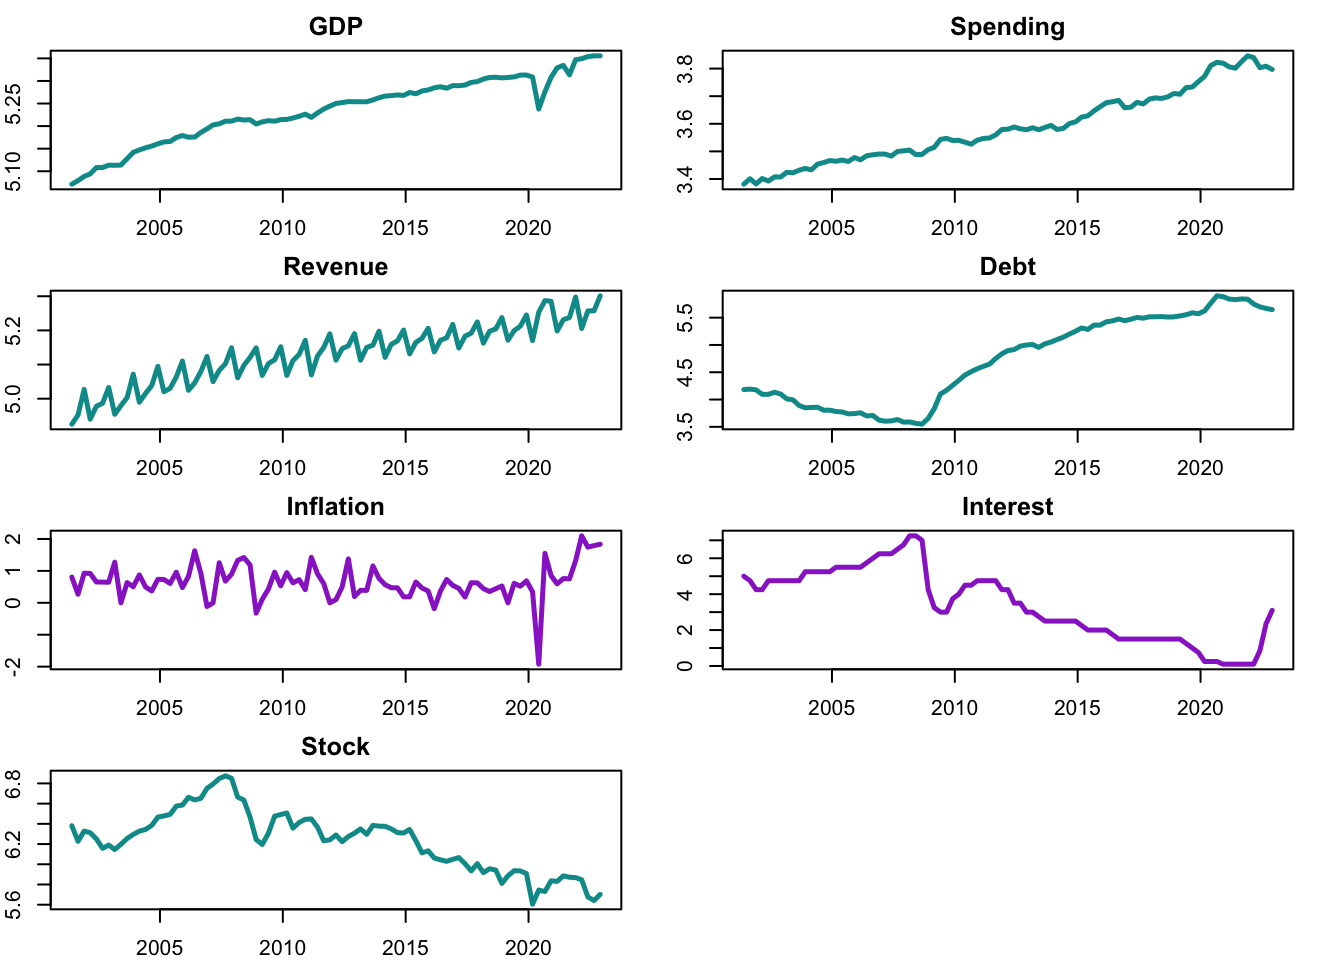
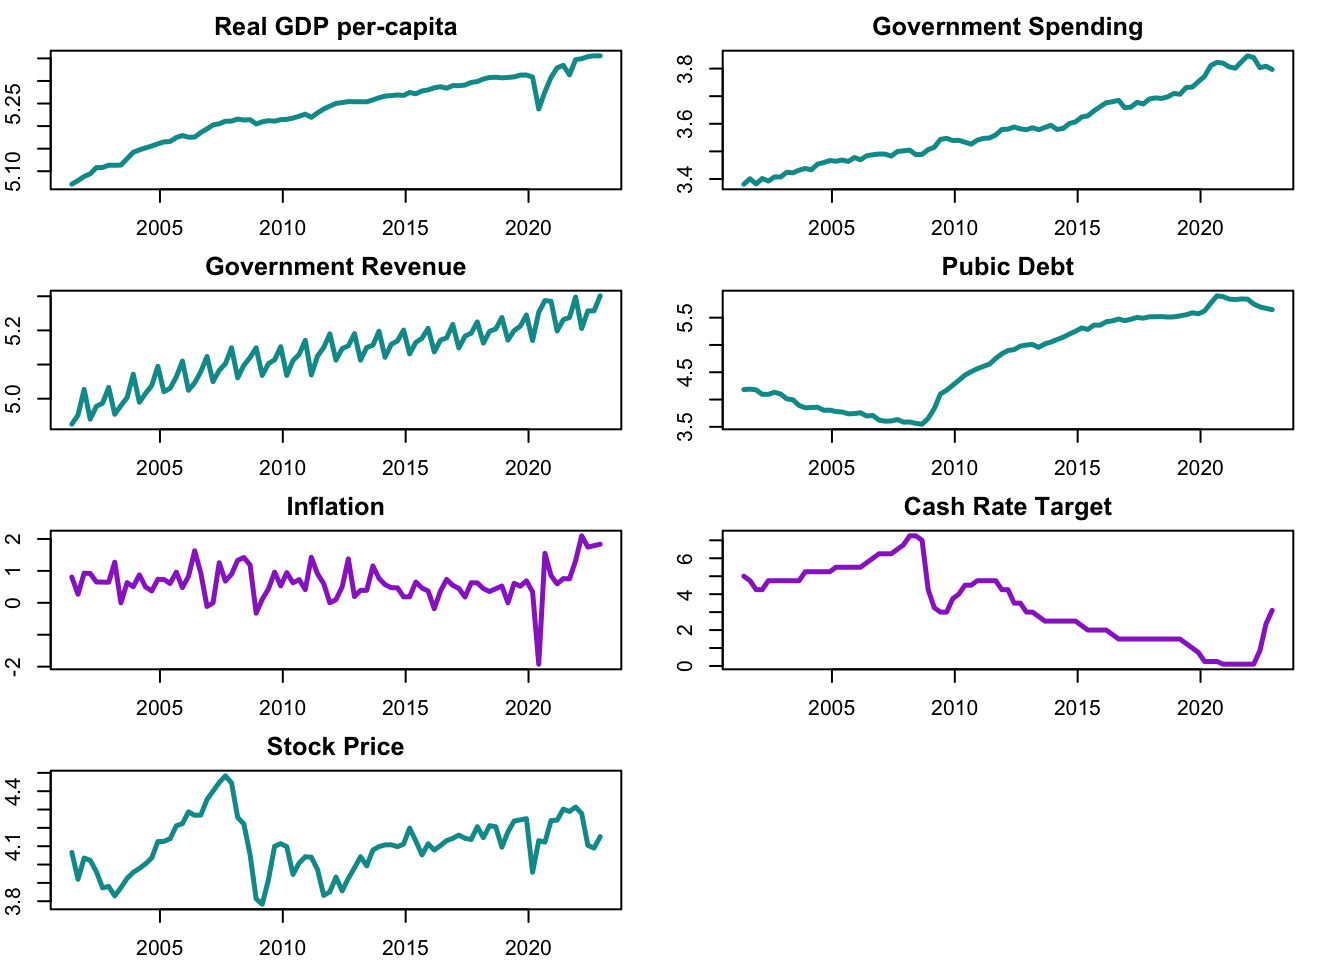
moreplots

diff --git a/docs/index.html b/docs/index.html
@@ -199,12 +199,26 @@ code span.wa { color: #60a0b0; font-weight: bold; font-style: italic; } /* Warni
 </section>
 <section id="data" class="level1">
 <h1>Data</h1>
-<p>The variables that are of interest include GDP, total government expenditure, total government revenue, cash rate target, inflation, public debt and stock prices. Those economic variables were collected from Reserve Bank of Australia (RBA) and Australian Bureau of Statistics (ABS), spanning quarterly from 1990 Q1 to 2022 Q4.</p>
-<p>Stock prices are data of All Ordinaries, which is the benchmark of Australian market with relative long history, separate financial sectors might be studied into detail in the future research. All Ordinaries data started from 2001-04-19, matching the date need to truncate 10 years of observations, which will result in a smaller sample size, thus, sub-samples would be considered to be implemented, for example, there could be one sample containing all the variables from 1990 to 2022 except stock prices to investigate the effects on economy. Inflation and cash rate target are also introduced in the model as controls.</p>
-<p>Variables are transformed into real per-capita terms and compute logarithms as Mumtaz and Theodoridis (2020), except inflation and cash rate target. In this stage, only the sample including all variables ranging from 2001 Q2 to 2022 Q4 is considered in the following section.</p>
 <div class="cell">
 
 </div>
+<p>The variables that are of interest include GDP, total government expenditure, total government revenue, cash rate target, inflation, public debt and stock prices. Those economic variables were collected from Reserve Bank of Australia (RBA) and Australian Bureau of Statistics (ABS), spanning quarterly from 1990 Q1 to 2022 Q4.</p>
+<p>Stock prices are data of All Ordinaries, which is the benchmark of Australian market with relative long history, separate financial sectors might be studied into detail in the future research. All Ordinaries data started from 2001-04-19, matching the date need to truncate 10 years of observations, which will result in a smaller sample size, thus, sub-samples would be considered to be implemented, for example, there could be one sample containing all the variables from 1990 to 2022 except stock prices to investigate the effects on economy. Inflation and cash rate target are also introduced in the model as controls.(Plots of original data are shown in: <a href="#fig-plot">Figure&nbsp;1</a>.)</p>
+<div class="cell">
+
+</div>
+<div class="cell">
+<div class="cell-output-display">
+<div id="fig-plot" class="quarto-figure quarto-figure-center anchored">
+<figure class="figure">
+<p><img src="index_files/figure-html/fig-plot-1.png" class="img-fluid figure-img" width="672"></p>
+<p></p><figcaption class="figure-caption">Figure&nbsp;1: Time Series Plots : in nominal prices</figcaption><p></p>
+</figure>
+</div>
+</div>
+</div>
+<p>While GDP and government expenditure depict upward trend, government revenue shows increasing trend with seasonal patterns. Public debt kept relatively flat before the Global Financial Crisis (GFC), and started to increase after. Interest rate has a downward trend while stock prices exhibiting significant drop during GFC.</p>
+<p>Variables are transformed into real per-capita terms and compute logarithms as in Mumtaz and Theodoridis (2020), except inflation and cash rate target. In this stage, only the sample including all variables ranging from 2001 Q2 to 2022 Q4 is considered in the following section. Plots are provided as <a href="#fig-line-plot">Figure&nbsp;2</a>.</p>
 <div class="cell">
 
 </div>
@@ -276,28 +290,26 @@ code span.wa { color: #60a0b0; font-weight: bold; font-style: italic; } /* Warni
 <tr class="odd">
 <td style="text-align: left;">Stock</td>
 <td style="text-align: right;">87</td>
-<td style="text-align: right;">6.234</td>
-<td style="text-align: right;">0.298</td>
-<td style="text-align: right;">5.605</td>
-<td style="text-align: right;">6.875</td>
+<td style="text-align: right;">4.102</td>
+<td style="text-align: right;">0.151</td>
+<td style="text-align: right;">3.784</td>
+<td style="text-align: right;">4.484</td>
 </tr>
 </tbody>
 </table>
 </div>
 </div>
 </div>
-<p>Plots of transformed data are shown as: <a href="#fig-line-plot">Figure&nbsp;1</a>.</p>
 <div class="cell">
 <div class="cell-output-display">
 <div id="fig-line-plot" class="quarto-figure quarto-figure-center anchored">
 <figure class="figure">
 <p><img src="index_files/figure-html/fig-line-plot-1.png" class="img-fluid figure-img" width="672"></p>
-<p></p><figcaption class="figure-caption">Figure&nbsp;1: Time Series Plots</figcaption><p></p>
+<p></p><figcaption class="figure-caption">Figure&nbsp;2: Time Series Plots (Green lines are log transformation)</figcaption><p></p>
 </figure>
 </div>
 </div>
 </div>
-<p>While logarithms of real per capita GDP and government expenditure depict upward trend, government revenue shows increasing trend with seasonal patterns. Public debt has a significant drop starting end of 1990s. Interest rate has a downward trend while stock prices exhibiting downward trend after the Global Financial Crisis (GFC).</p>
 </section>
 <section id="methodology" class="level1">
 <h1>Methodology</h1>
@@ -331,13 +343,13 @@ Y_t = \mu_0 + \sum_{i=1}^{p}A_{i}Y_{t-i}+\epsilon_t
 </section>
 <section id="preliminary-results" class="level1">
 <h1>Preliminary Results</h1>
-<p>ACF Plots as in <a href="#fig-acf-plot">Figure&nbsp;2</a> show non-zero autocorrelations for at least 15 lags of variables except Inflation. PACF Plots as <a href="#fig-pacf-plot">Figure&nbsp;3</a> indicate significant and strong memory at the first lag of variables except Inflation, of, for which the first lag is also statistically significant but not strong.</p>
+<p>ACF Plots as in <a href="#fig-acf-plot">Figure&nbsp;3</a> show non-zero autocorrelations for at least 15 lags of variables except Inflation. PACF Plots as <a href="#fig-pacf-plot">Figure&nbsp;4</a> indicate significant and strong memory at the first lag of variables except Inflation, of, for which the first lag is also statistically significant but not strong.</p>
 <div class="cell">
 <div class="cell-output-display">
 <div id="fig-acf-plot" class="quarto-figure quarto-figure-center anchored">
 <figure class="figure">
 <p><img src="index_files/figure-html/fig-acf-plot-1.png" class="img-fluid figure-img" width="672"></p>
-<p></p><figcaption class="figure-caption">Figure&nbsp;2: ACF Plots</figcaption><p></p>
+<p></p><figcaption class="figure-caption">Figure&nbsp;3: ACF Plots</figcaption><p></p>
 </figure>
 </div>
 </div>
@@ -347,7 +359,7 @@ Y_t = \mu_0 + \sum_{i=1}^{p}A_{i}Y_{t-i}+\epsilon_t
 <div id="fig-pacf-plot" class="quarto-figure quarto-figure-center anchored">
 <figure class="figure">
 <p><img src="index_files/figure-html/fig-pacf-plot-1.png" class="img-fluid figure-img" width="672"></p>
-<p></p><figcaption class="figure-caption">Figure&nbsp;3: Partial ACF Plots</figcaption><p></p>
+<p></p><figcaption class="figure-caption">Figure&nbsp;4: Partial ACF Plots</figcaption><p></p>
 </figure>
 </div>
 </div>
@@ -417,9 +429,9 @@ Y_t = \mu_0 + \sum_{i=1}^{p}A_{i}Y_{t-i}+\epsilon_t
 </tr>
 <tr class="odd">
 <td style="text-align: left;">Stock</td>
-<td style="text-align: right;">-2.378</td>
+<td style="text-align: right;">-2.573</td>
 <td style="text-align: right;">4</td>
-<td style="text-align: right;">0.421</td>
+<td style="text-align: right;">0.340</td>
 </tr>
 </tbody>
 </table>
@@ -479,7 +491,7 @@ Y_t = \mu_0 + \sum_{i=1}^{p}A_{i}Y_{t-i}+\epsilon_t
 </tr>
 <tr class="odd">
 <td style="text-align: left;">Stock</td>
-<td style="text-align: right;">-4.394</td>
+<td style="text-align: right;">-4.475</td>
 <td style="text-align: right;">4</td>
 <td style="text-align: right;">0.010</td>
 </tr>
